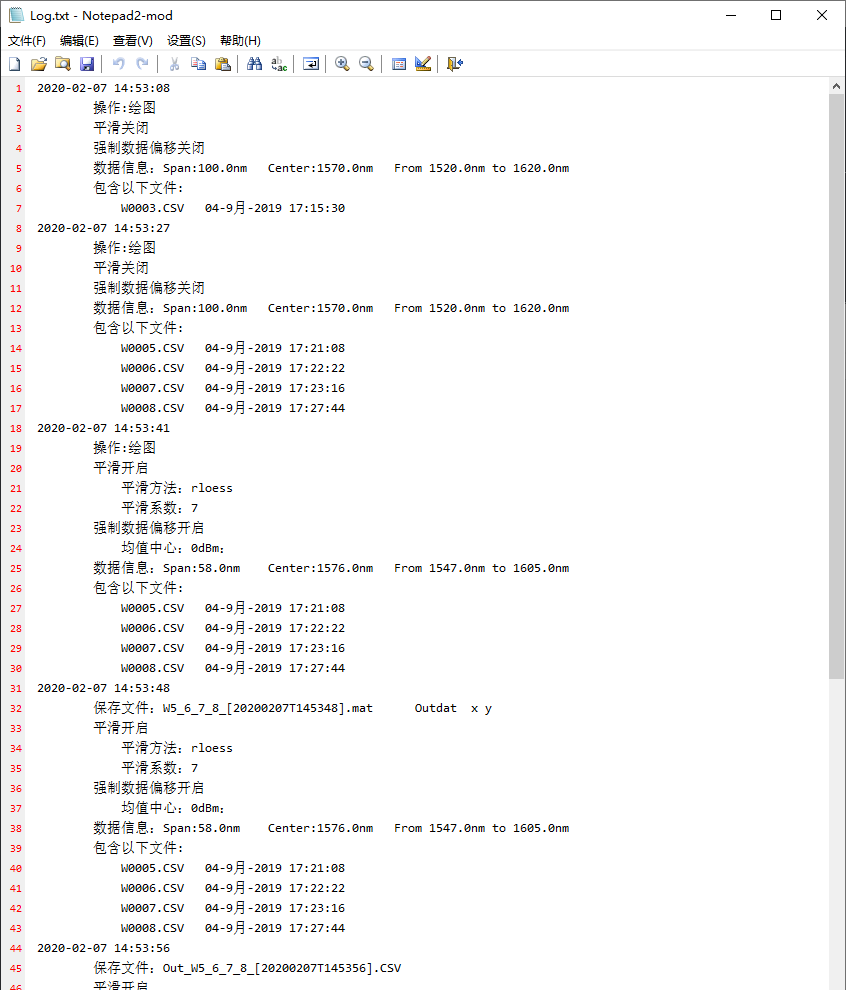
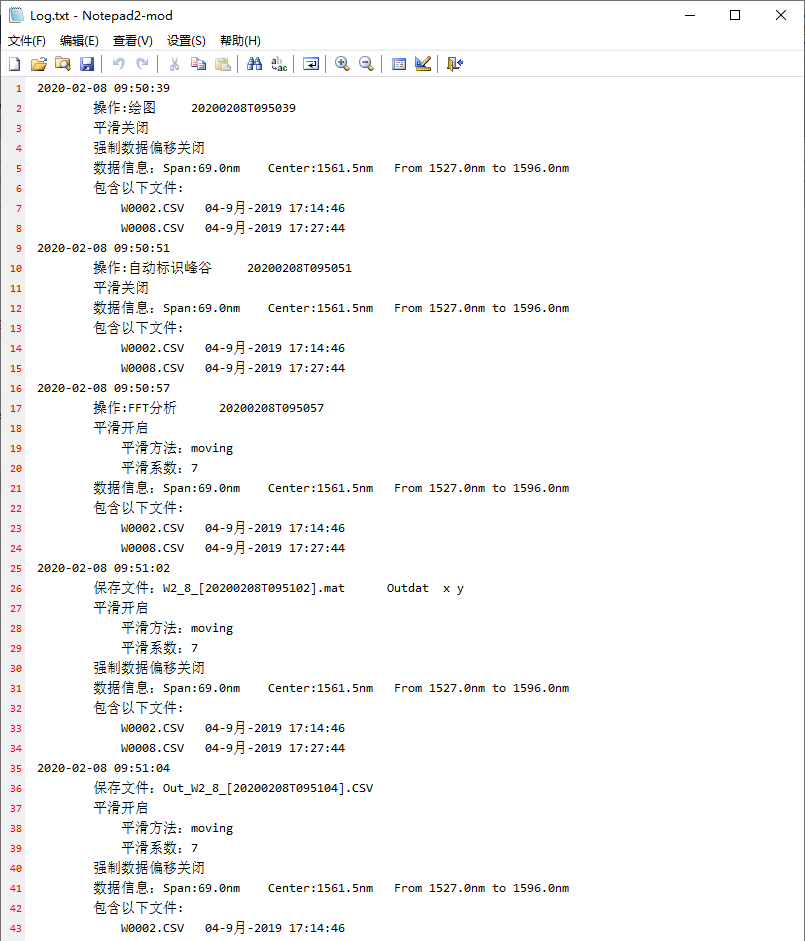
V2.12

diff --git a/README.md b/README.md
@@ -5,10 +5,10 @@
 
 V2.1
  - 添加数据导出Mat、CSV格式，便于专业软件绘图
- - 添加时间日志记录，所有操作可溯源。    
+ - 添加日志记录，所有操作可溯源。    
 
- - 下载地址：https://www.lanzous.com/i9572le  &emsp; 体积更小
- - 开源版本：https://www.lanzous.com/i95727a
+ - 下载地址：https://www.lanzous.com/i95ik3a  &emsp; (预解析版体积更小)
+ - 开源版本：https://www.lanzous.com/i95ijyf
 
 V2.0
 - 下载地址：<https://www.lanzous.com/i8u8ouf>
@@ -56,7 +56,9 @@ V2.0
 
 14. 添加mat、csv格式数据导出   --- V2.1
 
-15. 添加日志记录，所有操作可溯源。  --- V2.1
+15. 添加标题时间戳
+
+16. 添加日志记录，所有操作可溯源。  --- V2.1
 
 >   **Note**：
 
